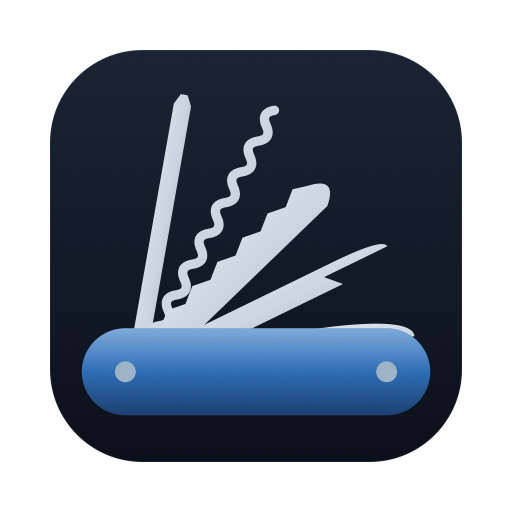
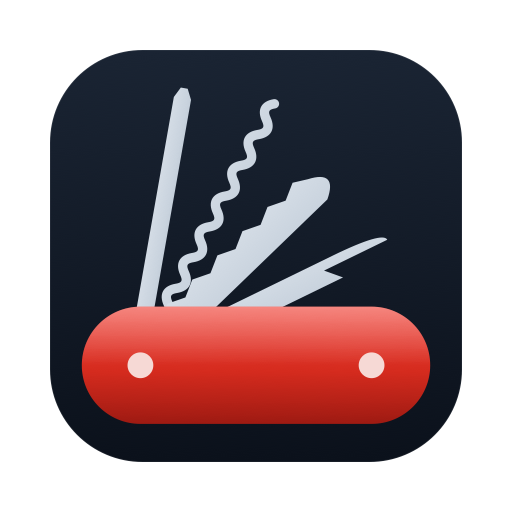
Higo devient Canif : nouveau nom, nouvelle icône

diff --git a/installation.html b/installation.html
@@ -3,11 +3,11 @@
 <head>
 <meta charset="utf-8">
 <meta name="viewport" content="width=device-width, initial-scale=1">
-<title>Installer Higo pas à pas</title>
+<title>Installer Canif pas à pas</title>
 <link rel="icon" href="icon.png">
-<meta name="description" content="Installer Higo sur votre Mac en six étapes.">
-<meta property="og:title" content="Higo — le couteau suisse de votre Mac">
-<meta property="og:image" content="https://xavier38.github.io/higo/promo.jpg">
+<meta name="description" content="Installer Canif sur votre Mac en six étapes.">
+<meta property="og:title" content="Canif — le couteau suisse de votre Mac">
+<meta property="og:image" content="https://xavier38.github.io/canif/promo.jpg">
 <style>
   :root { --bg:#f3f7fc; --card:#fff; --ink:#0f1c2e; --muted:#4f5f73; --moss:#1f5fae; --forest:#1B3F6E; --line:#d8e2ee; }
   @media (prefers-color-scheme: dark) { :root { --bg:#0f1622; --card:#172233; --ink:#e8f0fa; --muted:#a3b2c6; --line:#26354a; --moss:#7fb2f0; } }
@@ -34,28 +34,28 @@
 <body>
 <div class="switch"><a onclick="document.documentElement.classList.toggle('en')">FR / EN</a></div>
 <main>
-  <a class="retour" href="index.html">← Higo</a>
-  <h1 class="lang-fr">Installer Higo pas à pas</h1><h1 class="lang-en">Install Higo step by step</h1>
+  <a class="retour" href="index.html">← Canif</a>
+  <h1 class="lang-fr">Installer Canif pas à pas</h1><h1 class="lang-en">Install Canif step by step</h1>
   <p class="tag lang-fr">Six étapes, environ cinq minutes. Il faut un Mac Apple Silicon (M1 ou plus récent) sous macOS 14 Sonoma ou plus récent.</p>
   <p class="tag lang-en">Six steps, about five minutes. You need an Apple Silicon Mac (M1 or later) running macOS 14 Sonoma or later.</p>
-  <div class="btns"><a class="btn" href="https://github.com/xavier38/higo/releases/latest/download/Higo.zip">⬇ <span class="lang-fr">Télécharger Higo.zip</span><span class="lang-en">Download Higo.zip</span></a></div>
+  <div class="btns"><a class="btn" href="https://github.com/xavier38/canif/releases/latest/download/Canif.zip">⬇ <span class="lang-fr">Télécharger Canif.zip</span><span class="lang-en">Download Canif.zip</span></a></div>
   <ol class="etapes">
-    <li class="lang-fr"><b>Ouvrez le fichier téléchargé</b>Double-cliquez sur <code>Higo.zip</code> dans le dossier Téléchargements : l'app <code>Higo</code> apparaît.</li>
-    <li class="lang-en"><b>Open the downloaded file</b>Double-click <code>Higo.zip</code> in your Downloads folder: the <code>Higo</code> app appears.</li>
-    <li class="lang-fr"><b>Mettez-la dans Applications</b>Glissez <code>Higo</code> dans le dossier <b style="display:inline">Applications</b> (colonne de gauche du Finder).</li>
-    <li class="lang-en"><b>Move it to Applications</b>Drag <code>Higo</code> into the <b style="display:inline">Applications</b> folder (left column of the Finder).</li>
-    <li class="lang-fr"><b>Ouvrez-la une première fois</b>Faites un <b style="display:inline">clic droit</b> (ou Ctrl + clic) sur Higo, puis <b style="display:inline">Ouvrir</b>, puis <b style="display:inline">Ouvrir</b> de nouveau. macOS demande cette confirmation parce que Higo ne vient pas de l'App Store. Si le bouton « Ouvrir » n'apparaît pas : Réglages Système, Confidentialité et sécurité, tout en bas, <b style="display:inline">Ouvrir quand même</b>.</li>
-    <li class="lang-en"><b>Open it the first time</b><b style="display:inline">Right-click</b> (or Ctrl-click) Higo, then <b style="display:inline">Open</b>, then <b style="display:inline">Open</b> again. macOS asks for this because Higo does not come from the App Store. If there is no “Open” button: System Settings, Privacy &amp; Security, at the bottom, <b style="display:inline">Open Anyway</b>.</li>
-    <li class="lang-fr"><b>Trouvez l'icône</b>Un petit couteau suisse apparaît en haut de l'écran, dans la barre des menus. Cliquez dessus : les outils s'affichent. La roue dentée ouvre la fenêtre de Higo.</li>
-    <li class="lang-en"><b>Find the icon</b>A small Swiss army knife appears at the top of the screen, in the menu bar. Click it: the tools appear. The gear opens the Higo window.</li>
-    <li class="lang-fr"><b>Donnez les autorisations</b>Dans Higo, rubrique <b style="display:inline">Général</b>, section <b style="display:inline">Autorisations</b> : un bouton par autorisation (Accessibilité pour ranger les fenêtres, l'aperçu du Dock et le couper-coller ; Micro pour la dictée ; Localisation pour le nom du WiFi). Seuls les outils que vous utilisez en ont besoin.</li>
-    <li class="lang-en"><b>Grant permissions</b>In Higo, <b style="display:inline">General</b>, <b style="display:inline">Permissions</b>: one button per permission (Accessibility for window snapping, Dock preview and cut-paste; Microphone for dictation; Location for the WiFi name). Only the tools you use need them.</li>
+    <li class="lang-fr"><b>Ouvrez le fichier téléchargé</b>Double-cliquez sur <code>Canif.zip</code> dans le dossier Téléchargements : l'app <code>Canif</code> apparaît.</li>
+    <li class="lang-en"><b>Open the downloaded file</b>Double-click <code>Canif.zip</code> in your Downloads folder: the <code>Canif</code> app appears.</li>
+    <li class="lang-fr"><b>Mettez-la dans Applications</b>Glissez <code>Canif</code> dans le dossier <b style="display:inline">Applications</b> (colonne de gauche du Finder).</li>
+    <li class="lang-en"><b>Move it to Applications</b>Drag <code>Canif</code> into the <b style="display:inline">Applications</b> folder (left column of the Finder).</li>
+    <li class="lang-fr"><b>Ouvrez-la une première fois</b>Faites un <b style="display:inline">clic droit</b> (ou Ctrl + clic) sur Canif, puis <b style="display:inline">Ouvrir</b>, puis <b style="display:inline">Ouvrir</b> de nouveau. macOS demande cette confirmation parce que Canif ne vient pas de l'App Store. Si le bouton « Ouvrir » n'apparaît pas : Réglages Système, Confidentialité et sécurité, tout en bas, <b style="display:inline">Ouvrir quand même</b>.</li>
+    <li class="lang-en"><b>Open it the first time</b><b style="display:inline">Right-click</b> (or Ctrl-click) Canif, then <b style="display:inline">Open</b>, then <b style="display:inline">Open</b> again. macOS asks for this because Canif does not come from the App Store. If there is no “Open” button: System Settings, Privacy &amp; Security, at the bottom, <b style="display:inline">Open Anyway</b>.</li>
+    <li class="lang-fr"><b>Trouvez l'icône</b>Un petit couteau suisse apparaît en haut de l'écran, dans la barre des menus. Cliquez dessus : les outils s'affichent. La roue dentée ouvre la fenêtre de Canif.</li>
+    <li class="lang-en"><b>Find the icon</b>A small Swiss army knife appears at the top of the screen, in the menu bar. Click it: the tools appear. The gear opens the Canif window.</li>
+    <li class="lang-fr"><b>Donnez les autorisations</b>Dans Canif, rubrique <b style="display:inline">Général</b>, section <b style="display:inline">Autorisations</b> : un bouton par autorisation (Accessibilité pour ranger les fenêtres, l'aperçu du Dock et le couper-coller ; Micro pour la dictée ; Localisation pour le nom du WiFi). Seuls les outils que vous utilisez en ont besoin.</li>
+    <li class="lang-en"><b>Grant permissions</b>In Canif, <b style="display:inline">General</b>, <b style="display:inline">Permissions</b>: one button per permission (Accessibility for window snapping, Dock preview and cut-paste; Microphone for dictation; Location for the WiFi name). Only the tools you use need them.</li>
     <li class="lang-fr"><b>Choisissez vos outils</b>Rubrique <b style="display:inline">Accueil</b> : un interrupteur par outil. Coupez ceux dont vous n'avez pas besoin.</li>
     <li class="lang-en"><b>Pick your tools</b><b style="display:inline">Home</b>: one switch per tool. Turn off the ones you don't need.</li>
   </ol>
-  <p class="note lang-fr">La dictée a besoin d'un modèle de reconnaissance vocale (environ 630 Mo). Higo vous propose de l'installer la première fois que vous ouvrez l'outil Dictée ; ensuite tout fonctionne sans internet.</p>
-  <p class="note lang-en">Dictation needs a speech recognition model (about 630 MB). Higo offers to install it the first time you open the Dictation tool; after that everything works offline.</p>
-  <footer><p class="lang-fr">Un souci ? Écrivez-moi depuis Higo, rubrique « Nous écrire ». Et si Higo vous plaît, <a href="cafe.html">offrez-moi un café</a>.</p><p class="lang-en">A problem? Write to me from Higo, “Contact us”. And if you like Higo, <a href="cafe.html">buy me a coffee</a>.</p></footer>
+  <p class="note lang-fr">La dictée a besoin d'un modèle de reconnaissance vocale (environ 630 Mo). Canif vous propose de l'installer la première fois que vous ouvrez l'outil Dictée ; ensuite tout fonctionne sans internet.</p>
+  <p class="note lang-en">Dictation needs a speech recognition model (about 630 MB). Canif offers to install it the first time you open the Dictation tool; after that everything works offline.</p>
+  <footer><p class="lang-fr">Un souci ? Écrivez-moi depuis Canif, rubrique « Nous écrire ». Et si Canif vous plaît, <a href="cafe.html">offrez-moi un café</a>.</p><p class="lang-en">A problem? Write to me from Canif, “Contact us”. And if you like Canif, <a href="cafe.html">buy me a coffee</a>.</p></footer>
 </main>
 <script>if ((navigator.language || "fr").toLowerCase().indexOf("fr") !== 0) document.documentElement.classList.add("en");</script>
 </body>

diff --git a/confidentialite.html b/confidentialite.html
@@ -3,8 +3,8 @@
 <head>
 <meta charset="utf-8">
 <meta name="viewport" content="width=device-width, initial-scale=1">
-<title>Higo — Politique de confidentialité</title>
-<meta name="description" content="Higo garde vos fichiers entre vos clouds et votre ordinateur. Rien ne passe par un serveur du développeur.">
+<title>Canif — Politique de confidentialité</title>
+<meta name="description" content="Canif garde vos fichiers entre vos clouds et votre ordinateur. Rien ne passe par un serveur du développeur.">
 <link rel="icon" href="icon.png">
 <style>
   :root { --bg:#f3f7fc; --card:#fff; --ink:#0f1c2e; --muted:#4f5f73; --moss:#2f6b0e; --line:#d8e2ee; }
@@ -29,24 +29,24 @@
 <body>
 <div class="switch"><a onclick="document.documentElement.classList.toggle('en')">FR / EN</a></div>
 <main>
-  <header><img src="icon.png" alt="Higo"><h1 lang="fr">Politique de confidentialité</h1><h1 lang="en">Privacy policy</h1></header>
-  <p class="muted" lang="fr">Application Higo · dernière mise à jour : 3 novembre 2026 · <a href="index.html">Page d'accueil</a></p>
-  <p class="muted" lang="en">Higo app · last updated: November 3, 2026 · <a href="index.html">Home page</a></p>
+  <header><img src="icon.png" alt="Canif"><h1 lang="fr">Politique de confidentialité</h1><h1 lang="en">Privacy policy</h1></header>
+  <p class="muted" lang="fr">Application Canif · dernière mise à jour : 3 novembre 2026 · <a href="index.html">Page d'accueil</a></p>
+  <p class="muted" lang="en">Canif app · last updated: November 3, 2026 · <a href="index.html">Home page</a></p>
   <div lang="fr">
     <div class="box">
       <h2>En une phrase</h2>
-      <p>Higo travaille uniquement sur votre Mac. Le développeur n'a aucun serveur, ne reçoit rien et ne voit rien de ce que vous faites : pas de compte, pas de publicité, pas de statistiques d'utilisation.</p>
+      <p>Canif travaille uniquement sur votre Mac. Le développeur n'a aucun serveur, ne reçoit rien et ne voit rien de ce que vous faites : pas de compte, pas de publicité, pas de statistiques d'utilisation.</p>
     </div>
-    <h2>Ce à quoi Higo accède, et pourquoi</h2>
+    <h2>Ce à quoi Canif accède, et pourquoi</h2>
     <ul>
       <li><strong>Accessibilité</strong> : pour ranger les fenêtres, afficher l'aperçu du Dock et faire le couper-coller dans le Finder.</li>
-      <li><strong>Surveillance de l'entrée</strong> : pour reconnaître le raccourci de la dictée et ⌘X / ⌘V. Higo ne garde ni n'envoie ce que vous tapez.</li>
+      <li><strong>Surveillance de l'entrée</strong> : pour reconnaître le raccourci de la dictée et ⌘X / ⌘V. Canif ne garde ni n'envoie ce que vous tapez.</li>
       <li><strong>Micro</strong> : pour la dictée. La voix est transcrite sur le Mac lui-même ; aucun son n'est enregistré ni envoyé.</li>
       <li><strong>Enregistrement de l'écran</strong> : pour les miniatures des fenêtres dans l'aperçu du Dock. Les images restent en mémoire et ne sont jamais enregistrées.</li>
-      <li><strong>Localisation</strong> : uniquement parce que macOS l'exige pour lire le nom du réseau WiFi. Higo ne lit ni ne garde votre position.</li>
+      <li><strong>Localisation</strong> : uniquement parce que macOS l'exige pour lire le nom du réseau WiFi. Canif ne lit ni ne garde votre position.</li>
       <li><strong>Calendrier</strong> : pour montrer les événements du jour dans l'aperçu du Dock. Rien ne quitte le Mac.</li>
     </ul>
-    <h2>Quand Higo se connecte à internet</h2>
+    <h2>Quand Canif se connecte à internet</h2>
     <ul>
       <li><strong>Dictée</strong> : pour télécharger le modèle de reconnaissance vocale chez Hugging Face, la première fois, puis vérifier une fois par jour s'il existe une version plus récente.</li>
       <li><strong>DNS</strong> : pour mesurer la rapidité des serveurs DNS, quand vous le demandez.</li>
@@ -59,18 +59,18 @@
   <div lang="en">
     <div class="box">
       <h2>In one sentence</h2>
-      <p>Higo works only on your Mac. The developer runs no server, receives nothing and sees nothing of what you do: no account, no ads, no usage statistics.</p>
+      <p>Canif works only on your Mac. The developer runs no server, receives nothing and sees nothing of what you do: no account, no ads, no usage statistics.</p>
     </div>
-    <h2>What Higo accesses, and why</h2>
+    <h2>What Canif accesses, and why</h2>
     <ul>
       <li><strong>Accessibility</strong>: to snap windows, show the Dock preview and cut and paste in the Finder.</li>
-      <li><strong>Input Monitoring</strong>: to recognise the dictation shortcut and ⌘X / ⌘V. Higo neither keeps nor sends what you type.</li>
+      <li><strong>Input Monitoring</strong>: to recognise the dictation shortcut and ⌘X / ⌘V. Canif neither keeps nor sends what you type.</li>
       <li><strong>Microphone</strong>: for dictation. Speech is transcribed on the Mac itself; no audio is recorded or sent.</li>
       <li><strong>Screen Recording</strong>: for window thumbnails in the Dock preview. Images stay in memory and are never saved.</li>
-      <li><strong>Location</strong>: only because macOS requires it to read the WiFi network name. Higo neither reads nor keeps your position.</li>
+      <li><strong>Location</strong>: only because macOS requires it to read the WiFi network name. Canif neither reads nor keeps your position.</li>
       <li><strong>Calendar</strong>: to show today's events in the Dock preview. Nothing leaves the Mac.</li>
     </ul>
-    <h2>When Higo goes online</h2>
+    <h2>When Canif goes online</h2>
     <ul>
       <li><strong>Dictation</strong>: to download the speech model from Hugging Face the first time, then check once a day for a newer version.</li>
       <li><strong>DNS</strong>: to measure DNS server speed, when you ask for it.</li>

diff --git a/index.html b/index.html
@@ -3,11 +3,11 @@
 <head>
 <meta charset="utf-8">
 <meta name="viewport" content="width=device-width, initial-scale=1">
-<title>Higo — le couteau suisse de votre Mac</title>
+<title>Canif — le couteau suisse de votre Mac</title>
 <link rel="icon" href="icon.png">
-<meta name="description" content="Higo réunit 11 petits outils du Mac dans une seule app gratuite : WiFi, horloges, DNS, couleur de l'écran, dictée, aperçu du Dock, rangement des fenêtres…">
-<meta property="og:title" content="Higo — le couteau suisse de votre Mac">
-<meta property="og:image" content="https://xavier38.github.io/higo/promo.jpg">
+<meta name="description" content="Canif réunit 11 petits outils du Mac dans une seule app gratuite : WiFi, horloges, DNS, couleur de l'écran, dictée, aperçu du Dock, rangement des fenêtres…">
+<meta property="og:title" content="Canif — le couteau suisse de votre Mac">
+<meta property="og:image" content="https://xavier38.github.io/canif/promo.jpg">
 <style>
   :root { --bg:#f3f7fc; --card:#fff; --ink:#0f1c2e; --muted:#4f5f73; --moss:#1f5fae; --forest:#1B3F6E; --line:#d8e2ee; }
   @media (prefers-color-scheme: dark) { :root { --bg:#0f1622; --card:#172233; --ink:#e8f0fa; --muted:#a3b2c6; --line:#26354a; --moss:#7fb2f0; } }
@@ -35,18 +35,18 @@
 <div class="switch"><a onclick="document.documentElement.classList.toggle('en')">FR / EN</a></div>
 <main>
   <div style="display:flex;gap:18px;align-items:center;flex-wrap:wrap">
-    <img src="icon.png" alt="Higo" width="96" height="96" style="border-radius:22px;box-shadow:0 8px 22px rgba(0,0,0,.2)">
-    <div><h1>Higo</h1>
+    <img src="icon.png" alt="Canif" width="96" height="96" style="border-radius:22px;box-shadow:0 8px 22px rgba(0,0,0,.2)">
+    <div><h1>Canif</h1>
       <p class="tag lang-fr">Le couteau suisse de votre Mac : 11 outils dans une seule app.</p><p class="tag lang-en">Your Mac's Swiss army knife: 11 tools in one app.</p></div>
   </div>
   <div class="btns">
-    <a class="btn" href="https://github.com/xavier38/higo/releases/latest/download/Higo.zip">⬇ <span class="lang-fr">Télécharger Higo</span><span class="lang-en">Download Higo</span></a>
+    <a class="btn" href="https://github.com/xavier38/canif/releases/latest/download/Canif.zip">⬇ <span class="lang-fr">Télécharger Canif</span><span class="lang-en">Download Canif</span></a>
     <a class="btn plain" href="installation.html"><span class="lang-fr">Installer pas à pas →</span><span class="lang-en">Step-by-step install →</span></a>
     <a class="btn cafe" href="cafe.html">☕ <span class="lang-fr">Offrez-moi un café</span><span class="lang-en">Buy me a coffee</span></a>
   </div>
   <p class="tag lang-fr" style="font-size:15px">Gratuit. macOS 14 Sonoma ou plus récent, Mac Apple Silicon (M1 ou plus récent).</p>
   <p class="tag lang-en" style="font-size:15px">Free. macOS 14 Sonoma or later, Apple Silicon Mac (M1 or later).</p>
-  <img class="promo" src="promo.jpg" alt="Higo : l'accueil avec ses 11 outils">
+  <img class="promo" src="promo.jpg" alt="Canif : l'accueil avec ses 11 outils">
 
   <h2 class="lang-fr">Une app au lieu de onze</h2><h2 class="lang-en">One app instead of eleven</h2>
   <p class="lang-fr">Chaque outil s'active ou se coupe d'un clic. Mode standard pour aller à l'essentiel, mode expert pour tout régler. Tout se commande depuis l'icône en haut de l'écran.</p>
@@ -76,8 +76,8 @@
       <p class="lang-fr">Soyez prévenu quand une partie d'une page web change. <i>Remplace Web Alert.</i></p><p class="lang-en">Get notified when part of a web page changes. <i>Replaces Web Alert.</i></p></div>
   </div>
   <footer>
-    <p class="lang-fr">Higo est gratuit. S'il vous rend service, <a href="cafe.html">offrez-moi un café</a>. · <a href="confidentialite.html">Confidentialité</a></p>
-    <p class="lang-en">Higo is free. If it helps you, <a href="cafe.html">buy me a coffee</a>. · <a href="confidentialite.html">Privacy</a></p>
+    <p class="lang-fr">Canif est gratuit. S'il vous rend service, <a href="cafe.html">offrez-moi un café</a>. · <a href="confidentialite.html">Confidentialité</a></p>
+    <p class="lang-en">Canif is free. If it helps you, <a href="cafe.html">buy me a coffee</a>. · <a href="confidentialite.html">Privacy</a></p>
   </footer>
 </main>
 <script>if ((navigator.language || "fr").toLowerCase().indexOf("fr") !== 0) document.documentElement.classList.add("en");</script>

diff --git a/cafe.html b/cafe.html
@@ -3,7 +3,7 @@
 <head>
 <meta charset="utf-8">
 <meta name="viewport" content="width=device-width, initial-scale=1">
-<title>Un café pour Higo</title>
+<title>Un café pour Canif</title>
 <!-- Point d'entrée du bouton « Offrez-moi un café » : pour changer de service, modifier l'adresse ci-dessous. -->
 <meta http-equiv="refresh" content="0; url=https://paypal.me/XavierROUBAUD">
 <link rel="icon" href="icon.png">
